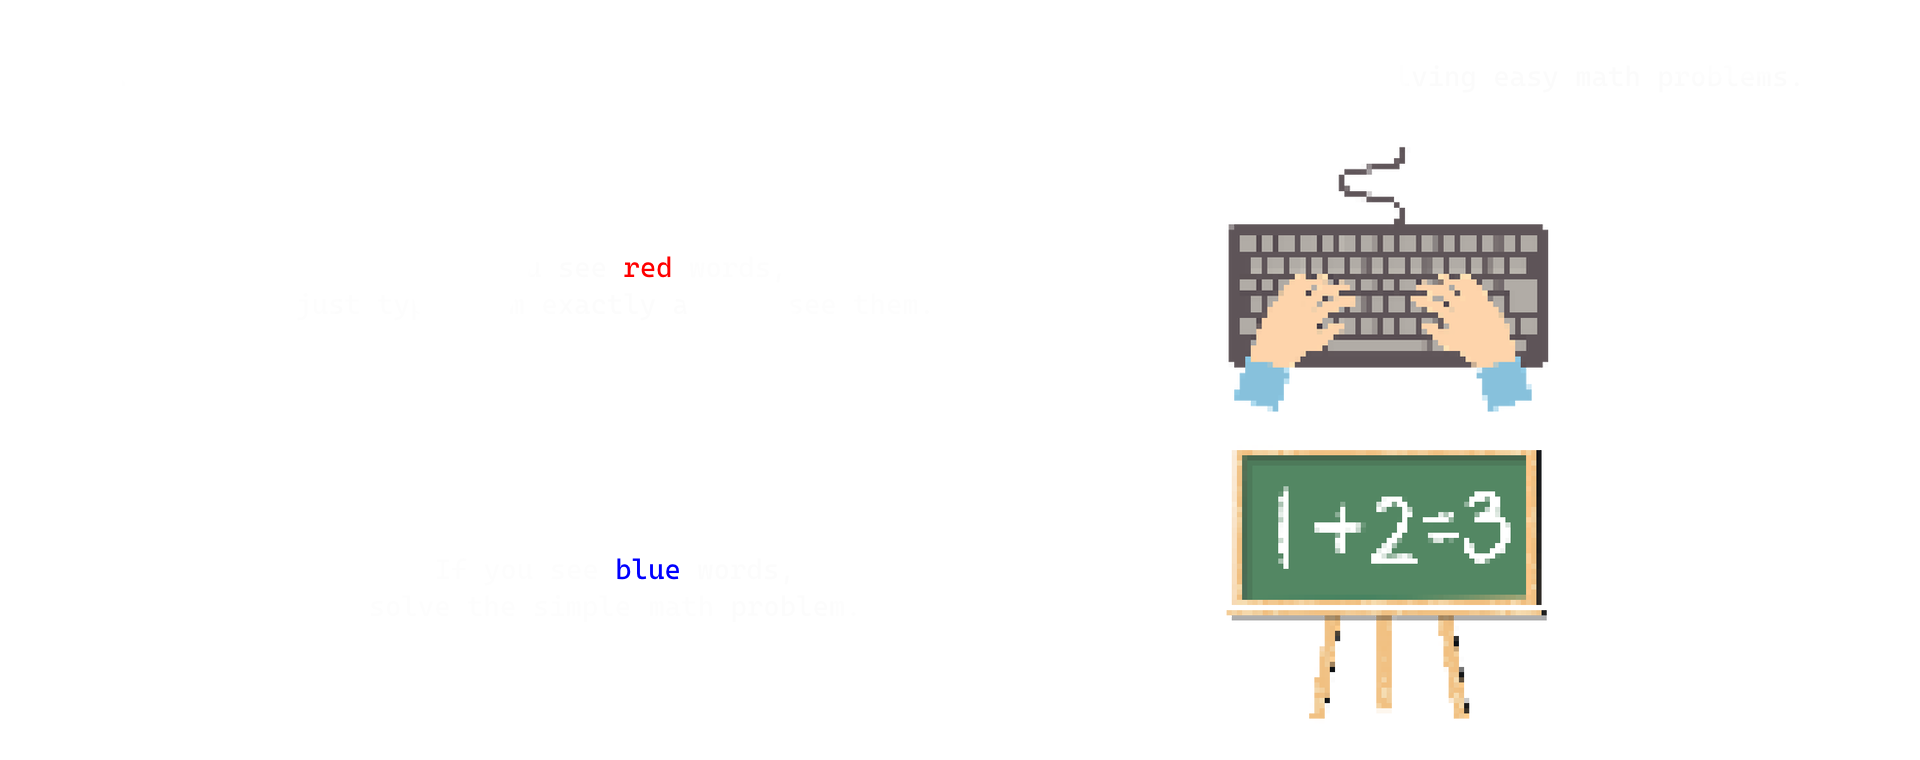
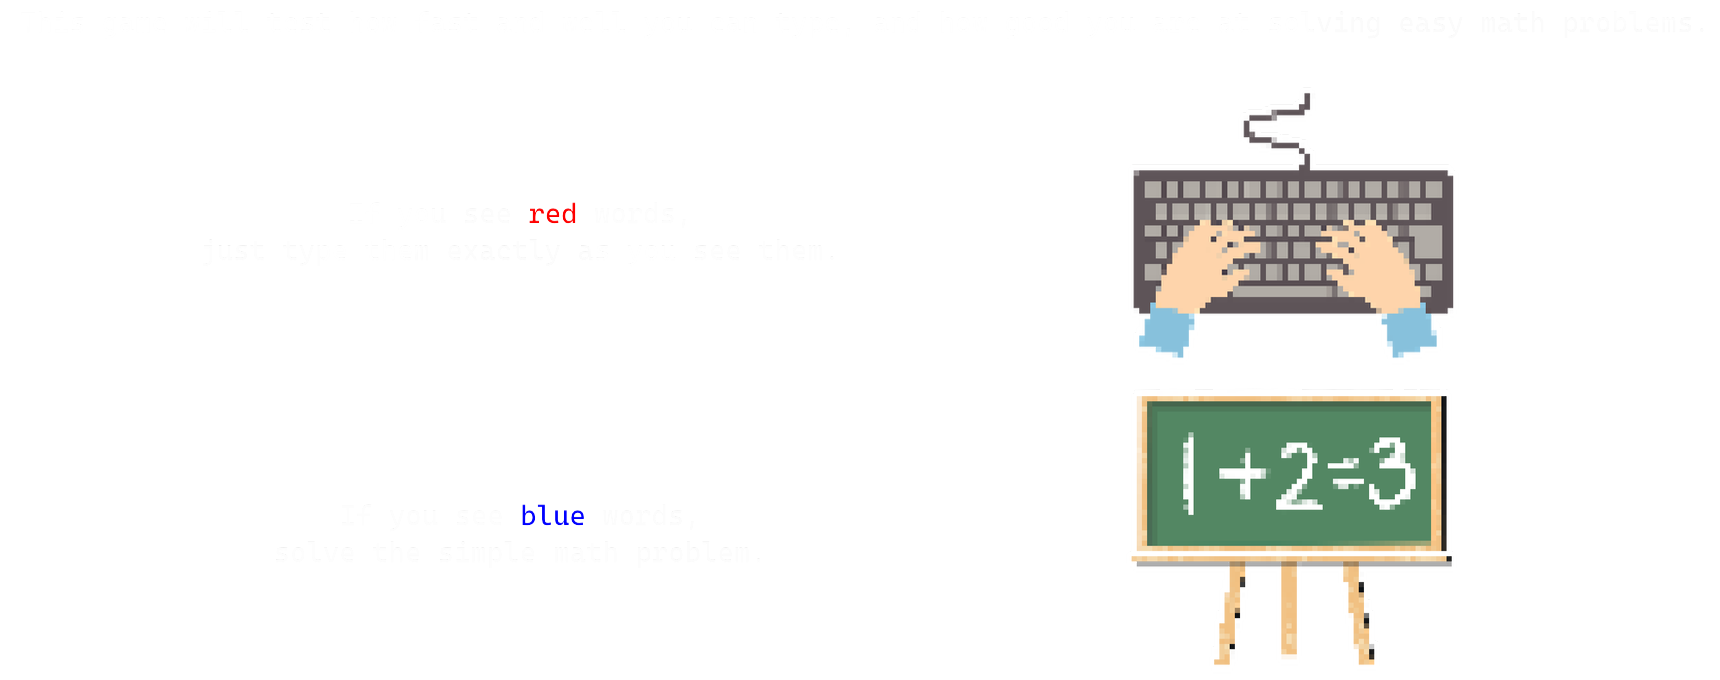
Button Sounds Fixed, Instruction Resized with small problem

Changed region(s): [[0.6163, 0.1544, 0.8628, 0.9882], [0.3081, 0.3088, 0.3698, 0.3706], [0.3081, 0.7412, 0.3698, 0.7721]]

diff --git a/instruction_page.py b/instruction_page.py
@@ -13,53 +13,140 @@ class InstructionPage(tk.Frame):
         
         # Set the background to black
         self.configure(bg="black")
-
+        
         # Load the images using PIL
-        self.page1_image = ImageTk.PhotoImage(Image.open("Assets/Pictures/Inst_How2Play.png").resize((1632, 646)))
-        self.page2_image = ImageTk.PhotoImage(Image.open("Assets/Pictures/Inst_LivesNPoints.png").resize((1632, 646)))
-        self.page3_image = ImageTk.PhotoImage(Image.open("Assets/Pictures/Inst_Tips2Succeed.png").resize((1632, 646)))
+        self.original_images = {
+            1: Image.open("Assets/Pictures/Inst_How2Play.png"),
+            2: Image.open("Assets/Pictures/Inst_LivesNPoints.png"),
+            3: Image.open("Assets/Pictures/Inst_Tips2Succeed.png")
+        }
+        self.page_images = {
+            1: ImageTk.PhotoImage(self.original_images[1]),
+            2: ImageTk.PhotoImage(self.original_images[2]),
+            3: ImageTk.PhotoImage(self.original_images[3]),
+        }
 
+        # Get image size and aspect ratio
+        self.image_width, self.image_height = self.original_images[1].size
+        self.aspect_ratio = self.image_height / self.image_width  # Height / Width
+
+        self.current_page = 1  # Track current page
+
+        # Create main layout frame
+        self.main_frame = tk.Frame(self, bg="black")
+        self.main_frame.pack(expand=True, fill=tk.BOTH)  # Allow expansion and fill
+
+        # Create widgets
         self.create_widgets()
 
-    def create_widgets(self):
-        # Page title
-        self.title_label = tk.Label(self, text="How to play?", font=("Courier", 60, "bold"), fg="white", bg="black")
-        self.title_label.pack(pady=20)
+        # Resize elements immediately after initialization
+        self.update_idletasks()  # Make sure widgets are rendered before resizing
+        self.on_resize(None)  # Trigger initial resize
+        
+        # Bind the configure event to handle window resizing
+        self.bind("<Configure>", self.on_resize)
 
-        # Image display
-        self.image_label = tk.Label(self, image=self.page1_image, bg="black")
-        self.image_label.pack(pady=5)
+    def create_widgets(self):
+        # Set grid weights for the main frame
+        self.main_frame.grid_rowconfigure(0, weight=0)
+        self.main_frame.grid_rowconfigure(1, weight=1)  # Image should expand
+        self.main_frame.grid_rowconfigure(2, weight=0)  # Buttons should not expand vertically
+        self.main_frame.grid_columnconfigure(0, weight=1)  # Whole layout should expand horizontally
+
+        # Page title
+        self.title_label = tk.Label(self.main_frame, text="How to play?", font=("Courier", 60, "bold"), fg="white", bg="black")
+        self.title_label.grid(row=0, column=0, sticky="nsew")
+
+        # Image display frame
+        self.image_label = tk.Label(self.main_frame, image=self.page_images[self.current_page], bg="black")
+        self.image_label.grid(row=1, column=0, sticky="nsew")
+
+        # Navigation buttons frame
+        self.button_frame = tk.Frame(self.main_frame, bg="black")
+        self.button_frame.grid(row=2, column=0, pady=(0,10), sticky="nsew")
+        
+        # Set grid column weights for button resizing
+        self.button_frame.grid_columnconfigure(0, weight=1)
+        self.button_frame.grid_columnconfigure(1, weight=1)
+        self.button_frame.grid_columnconfigure(2, weight=1)
+        self.button_frame.grid_columnconfigure(3, weight=1)
+
+        # Initial button font
+        self.button_font = ("Courier", 24, "bold")
 
         # Navigation buttons
-        button_font = ("Courier", 24, "bold")
-        self.how_to_play_button = tk.Button(self, text="How to Play", font=button_font, bg="purple", fg="white", 
+        self.how_to_play_button = tk.Button(self.button_frame, text="How to Play", font=self.button_font, bg="purple", fg="white", 
                                             command=lambda: self.play_click_sound_and(self.show_page, 1))
-        self.lives_and_points_button = tk.Button(self, text="Lives and Points", font=button_font, bg="orange", fg="white", 
-                                                 command=lambda: self.play_click_sound_and(self.show_page, 2))
-        self.tips_button = tk.Button(self, text="Tips to Succeed", font=button_font, bg="green", fg="white", 
-                                     command=lambda: self.play_click_sound_and(self.show_page, 3))
-        self.back_button = tk.Button(self, text="Back to Main Menu", font=button_font, bg="blue", fg="white", 
-                                     command=lambda: self.play_click_sound_and(self.controller.back_to_main_menu))
+        self.how_to_play_button.grid(row=0, column=0, sticky="ew", padx=10)
 
-        self.how_to_play_button.pack(side="left", padx=20)
-        self.lives_and_points_button.pack(side="left", padx=20)
-        self.tips_button.pack(side="left", padx=20)
-        self.back_button.pack(side="right", padx=20)
+        self.lives_and_points_button = tk.Button(self.button_frame, text="Lives and Points", font=self.button_font, bg="orange", fg="white", 
+                                                 command=lambda: self.play_click_sound_and(self.show_page, 2))
+        self.lives_and_points_button.grid(row=0, column=1, sticky="ew", padx=10)
+
+        self.tips_button = tk.Button(self.button_frame, text="Tips to Succeed", font=self.button_font, bg="green", fg="white", 
+                                     command=lambda: self.play_click_sound_and(self.show_page, 3))
+        self.tips_button.grid(row=0, column=2, sticky="ew", padx=10)
+
+        self.back_button = tk.Button(self.button_frame, text="Back to Main Menu", font=self.button_font, bg="blue", fg="white", 
+                                     command=lambda: self.play_click_sound_and(self.controller.back_to_main_menu))
+        self.back_button.grid(row=0, column=3, sticky="ew", padx=10)
 
     def show_page(self, page_num):
+        self.current_page = page_num
         if page_num == 1:
             self.title_label.config(text="How to play?")
-            self.image_label.config(image=self.page1_image)
         elif page_num == 2:
             self.title_label.config(text="Lives and Points")
-            self.image_label.config(image=self.page2_image)
         elif page_num == 3:
             self.title_label.config(text="Tips to Succeed")
-            self.image_label.config(image=self.page3_image)
+        self.update_image()
+
+    def update_image(self):
+        """Updates the image display with the resized version based on the window size."""
+        max_height = self.winfo_height() - self.button_frame.winfo_height() - self.title_label.winfo_height()  # Adjust for buttons and title
+        max_width = self.winfo_width() - 50  # Subtract some padding for aesthetics
+
+        if max_width <= 0 or max_height <= 0:
+            return  # Skip resizing if the window size is too small
+
+        width_ratio = max_width / self.image_width
+        height_ratio = max_height / self.image_height
+        scale_factor = min(width_ratio, height_ratio)  # Use the smaller ratio to ensure no clipping
+
+        new_width = int(self.image_width * scale_factor)
+        new_height = int(self.image_height * scale_factor)
+
+        if new_width > 0 and new_height > 0:
+            resized_image = self.original_images[self.current_page].resize((new_width, new_height), Image.Resampling.LANCZOS)
+            self.page_images[self.current_page] = ImageTk.PhotoImage(resized_image)
+            self.image_label.config(image=self.page_images[self.current_page])
+            self.image_label.image = self.page_images[self.current_page]  # Avoid image garbage collection
+
+    def on_resize(self, event=None):
+        """Handle window resizing event and update the image and label accordingly."""
+        self.update_image()
+        self.update_label_font()
+        self.update_button_font()
+
+    def update_label_font(self):
+        """Dynamically adjusts the label font size based on window size."""
+        current_width = self.winfo_width()
+        new_font_size = max(16, min(int(current_width / 25), 60))  # Limit font size between 16 and 60
+        self.title_label.config(font=("Courier", new_font_size, "bold"))
+
+    def update_button_font(self):
+        """Dynamically adjust the button font size based on window size."""
+        current_width = self.winfo_width()
+        button_font_size = max(12, min(int(current_width / 60), 24))  # Limit font size between 12 and 24
+        new_button_font = ("Courier", button_font_size, "bold")
+        
+        buttons = [self.how_to_play_button, self.lives_and_points_button, 
+                   self.tips_button, self.back_button]
+    
+        for button in buttons:
+            button.config(font=new_button_font)
 
     def play_click_sound_and(self, func, *args):
         """Play click sound and then execute the function."""
         self.click_sound.play()  # Play the sound effect
         func(*args)  # Call the actual function
-
-

diff --git a/main_menu.py b/main_menu.py
@@ -48,7 +48,7 @@ class MainMenu(tk.Frame):
         self.exit_button = tk.Button(
             self,
             image=self.exit_btn_image,
-            command=self.confirm_close,
+            command=self.app.play_with_sound(self.confirm_close),
             bg="black",
             borderwidth=0
         )
@@ -60,7 +60,7 @@ class MainMenu(tk.Frame):
         self.music_toggle_button = tk.Button(
             self,
             image=self.volume_play_image,
-            command=self.toggle_music,
+            command=self.app.play_with_sound(self.toggle_music),
             borderwidth=0,
             bg="black"
         )
@@ -85,21 +85,21 @@ class MainMenu(tk.Frame):
         self.play_button = tk.Button(
             self.button_frame,
             image=self.app.play_btn_image,
-            command=lambda: app.play_with_sound(app.switch_to_game_page()),
+            command=self.app.play_with_sound(lambda:app.switch_to_game_page()),
             borderwidth=0,
             bg="lightgray"
         )
         self.instruction_button = tk.Button(
             self.button_frame,
             image=self.app.instruction_btn_image,
-            command=lambda: app.play_with_sound(app.switch_to_instruction_page()),
+            command=self.app.play_with_sound(lambda:app.switch_to_instruction_page()),
             borderwidth=0,
             bg="lightgray"
         )
         self.high_score_button = tk.Button(
             self.button_frame,
             image=self.app.high_score_btn_image,
-            command=lambda: app.play_with_sound(app.switch_to_high_score_page()),
+            command=self.app.play_with_sound(lambda:app.switch_to_high_score_page()),
             borderwidth=0,
             bg="lightgray"
         )

diff --git a/game_page.py b/game_page.py
@@ -128,7 +128,7 @@ class GamePage(tk.Frame):
         self.pause_button = tk.Button(
             self.button_frame, 
             image=self.pause_image, 
-            command=lambda: app.play_with_sound(self.toggle_pause()), 
+            command= self.app.play_with_sound(lambda:self.toggle_pause()), 
             bg="black", 
             borderwidth=0
         )
@@ -205,7 +205,7 @@ class GamePage(tk.Frame):
         self.submit_button = tk.Button(
             self.entry_button_frame, 
             text="Submit", 
-            command=lambda: app.play_with_sound(self.check_answer()), 
+            command=self.app.play_with_sound(lambda: self.check_answer()), 
             font=("Courier", 24, "bold")
         )
         self.submit_button.pack(pady=(0, 10))  # Add padding below the button

diff --git a/high_score.py b/high_score.py
@@ -42,7 +42,7 @@ class HighScoreFrame(tk.Frame):
         back_button = tk.Button(
             self,
             text="Back to Main Menu",
-            command=self.app.back_to_main_menu,
+            command=self.app.play_with_sound(self.app.back_to_main_menu),
             font=("Press Start 2P", 24),  # Increased font size for button
             bg="red",
             fg="white",

diff --git a/save_scores.py b/save_scores.py
@@ -96,7 +96,7 @@ class SaveScoreFrame(tk.Frame):
         self.save_button = tk.Button(
             container,
             text="SAVE",
-            command=self.save_score,
+            command=self.play_with_sound(self.save_score),
             font=("Courier", 16, "bold"),
             fg="yellow",
             bg="black",
